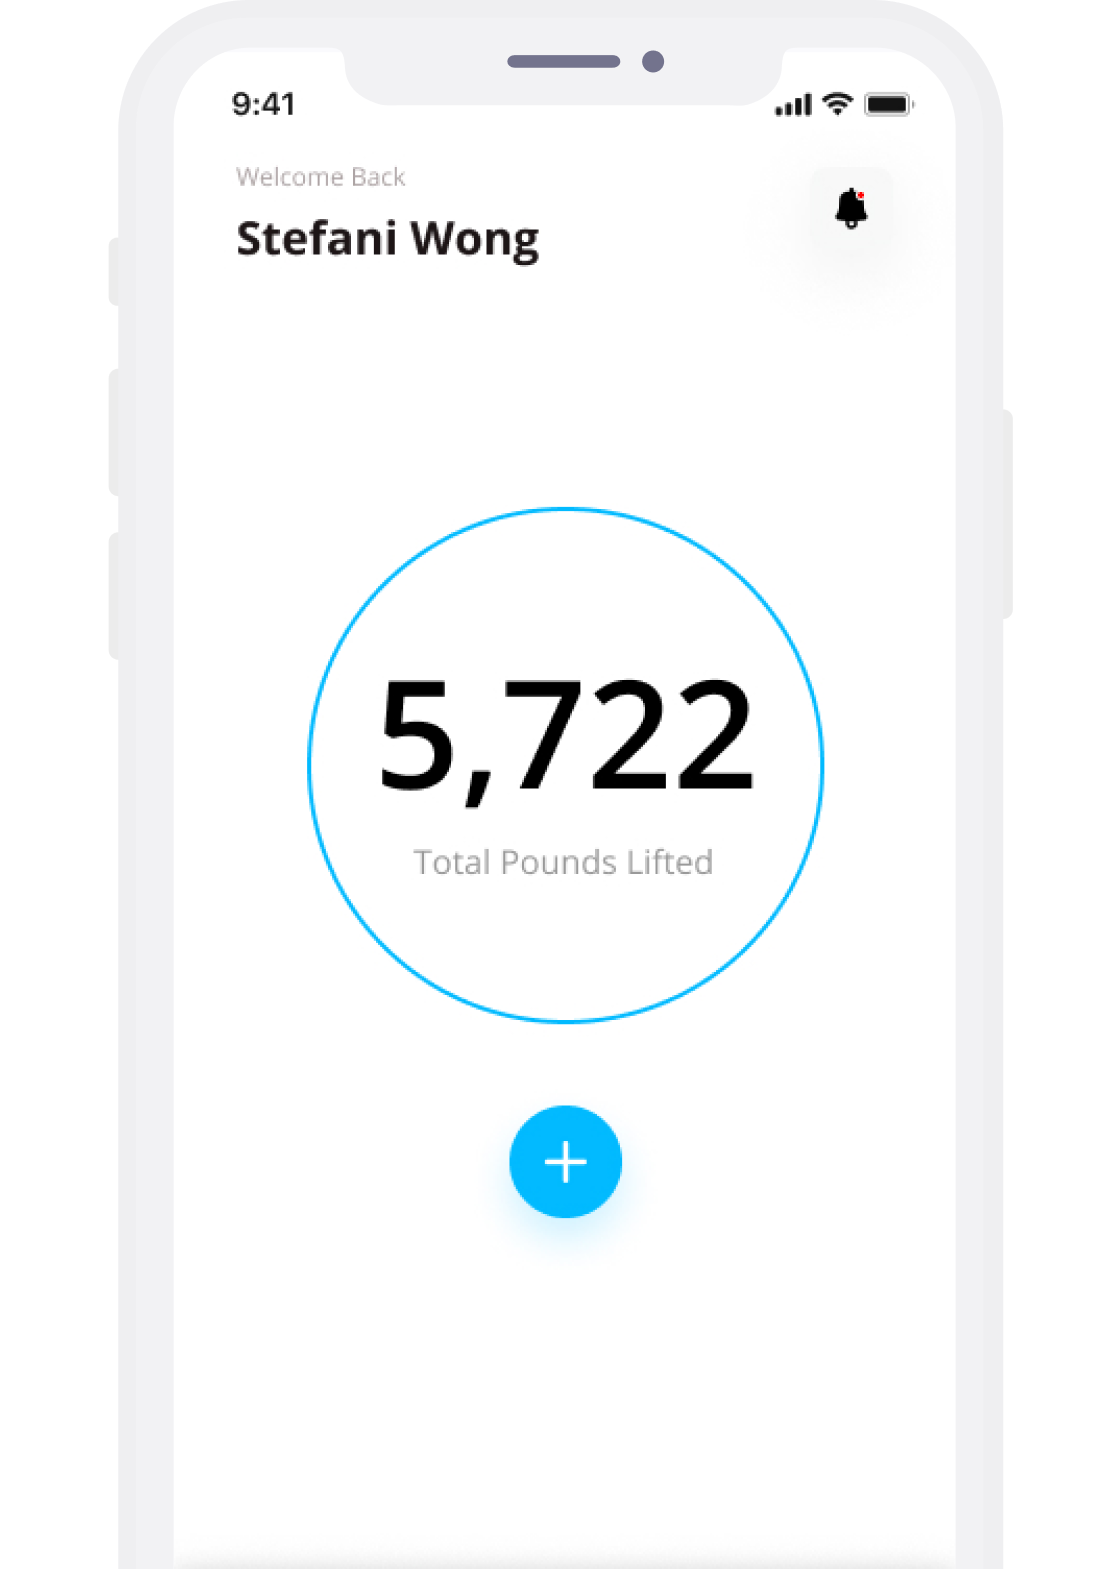
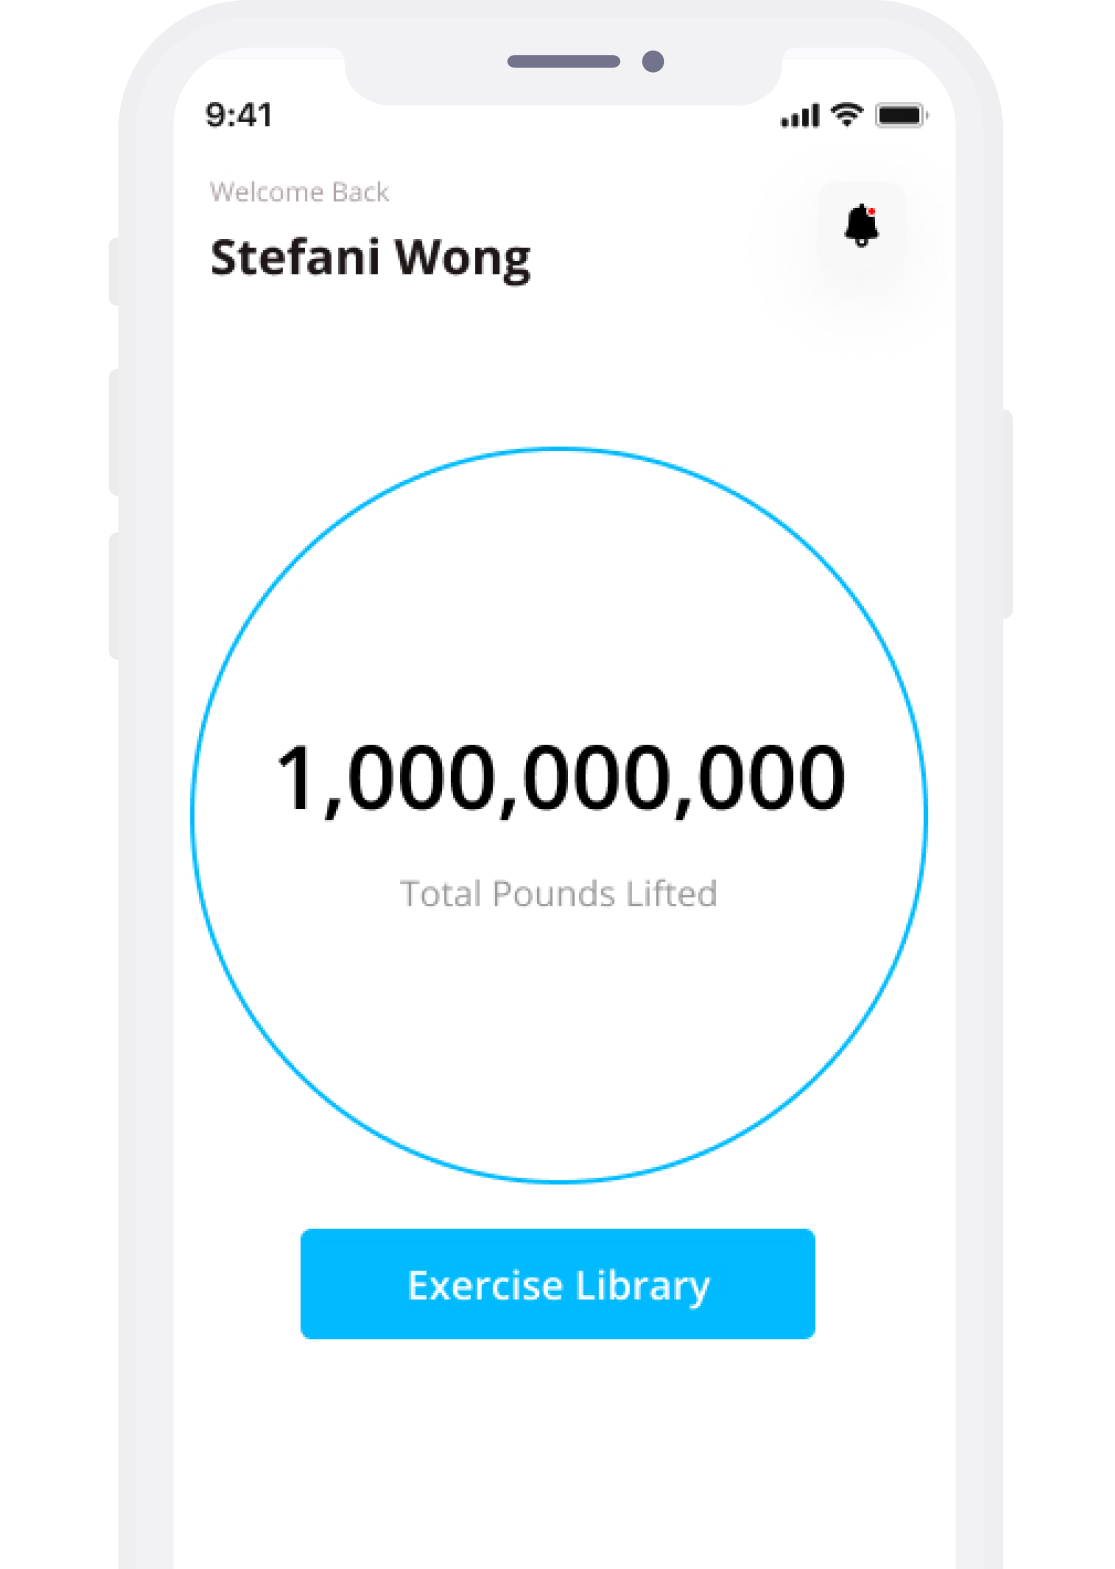
design changes & improvements
design changes & improvements

diff --git a/src/screens/AuthScreens/Login/Login.js b/src/screens/AuthScreens/Login/Login.js
@@ -1,5 +1,6 @@
 import React, {useEffect, useState} from 'react';
 import {Text, View, SafeAreaView, Image, StatusBar, Alert} from 'react-native';
+import AsyncStorage from '@react-native-async-storage/async-storage';
 import styles from './styles';
 import {AuthFooter, Input, WelcomeBox} from '../../../components';
 import {
@@ -20,6 +21,7 @@ import {loginRequest} from '../../../redux/actions';
 
 const Login = ({navigation}) => {
   const [loading, setloading] = useState(false);
+  const [isRemember, setIsRemember] = useState(false);
 
   //Redux States
   const dispatch = useDispatch(null);
@@ -39,7 +41,8 @@ const Login = ({navigation}) => {
     }
   };
   //onLogin Success
-  const onLoginSuccess = res => {
+  const onLoginSuccess = async res => {
+    await AsyncStorage.setItem('isRemember', isRemember.toString());
     setloading(false);
     if (res?.user != undefined) {
       navigation?.replace('App');
@@ -120,14 +123,36 @@ const Login = ({navigation}) => {
                 />
 
                 {/* App Privacy Checkbox */}
-                <Text
-                  onPress={() => {
-                    handleReset();
-                    navigation?.navigate('ForgotPassword');
-                  }}
-                  style={styles.forgotTxtStyle}>
-                  Forgot your password?{' '}
-                </Text>
+                <View style={styles.rowContainer}>
+                  <View style={styles.innerRowContainer}>
+                    <Icon
+                      type={'MaterialIcons'}
+                      name={
+                        isRemember ? 'check-box' : 'check-box-outline-blank'
+                      }
+                      size={20}
+                      color={isRemember ? colors.p1 : colors.g1}
+                      style={{marginTop: 5}}
+                      onPress={() => setIsRemember(!isRemember)}
+                    />
+                    <Text
+                      onPress={() => {
+                        handleReset();
+                        navigation?.navigate('ForgotPassword');
+                      }}
+                      style={styles.rememberTxtStyle}>
+                      Remember me
+                    </Text>
+                  </View>
+                  <Text
+                    onPress={() => {
+                      handleReset();
+                      navigation?.navigate('ForgotPassword');
+                    }}
+                    style={styles.forgotTxtStyle}>
+                    Forgot your password?{' '}
+                  </Text>
+                </View>
               </View>
 
               {/* Login Footer Part */}

diff --git a/src/components/Circle/HomeCircle.js b/src/components/Circle/HomeCircle.js
@@ -36,7 +36,8 @@ export const HomeCircle = ({title, subtitle, icon, onPressAdd, isLoading}) => {
       {icon && (
         <LinearGradient colors={colors.t_gradient} style={styles.btnContainer}>
           <TouchableOpacity style={styles.btnContainer} onPress={onPressAdd}>
-            <Image source={icon} style={styles.btnImage} />
+            <Text style={styles.buttonTxtStyle}>Exercise Library</Text>
+            {/* <Image source={icon} style={styles.btnImage} /> */}
           </TouchableOpacity>
         </LinearGradient>
       )}
@@ -73,9 +74,9 @@ const styles = StyleSheet.create({
     backgroundColor: colors.p1,
     alignItems: 'center',
     justifyContent: 'center',
-    height: 54,
-    width: 54,
-    borderRadius: 50,
+    height: 50,
+    width: WP('60'),
+    borderRadius: 5,
     shadowOffset: {
       width: 0,
       height: 4,
@@ -93,5 +94,10 @@ const styles = StyleSheet.create({
   aiCenter: {
     alignItems: 'center',
     justifyContent: 'center',
+  },
+  buttonTxtStyle: {
+    color: colors.white,
+    fontSize: size.large,
+    fontFamily: family.Poppins_Medium,
   },
 });

diff --git a/src/components/Cards/ActivityCard/ActivityCard.js b/src/components/Cards/ActivityCard/ActivityCard.js
@@ -11,6 +11,7 @@ import {
   spacing,
   WP,
 } from '../../../shared/exporter';
+import moment from 'moment';
 import {FitnessCard} from '../FitnessCard/FitnessCard';
 
 export const ActivityCard = ({
@@ -21,6 +22,7 @@ export const ActivityCard = ({
   weight,
   excercise,
   bestSet,
+  createdAt,
 }) => {
   return (
     <View style={styles.cardContainer}>
@@ -36,7 +38,10 @@ export const ActivityCard = ({
         <Text style={styles.subtitle}>{excercise}</Text>
       </View>
       <View style={styles.rightContainer}>
-        <View style={spacing.py3}>
+        <Text numberOfLines={1} style={styles.date}>
+          {moment(createdAt).format('LL')}
+        </Text>
+        <View style={[spacing.pb3, {top: 7}]}>
           <FitnessCard icon={cardIcon} />
         </View>
         <Text style={styles.type}>Best Set</Text>
@@ -110,5 +115,10 @@ const styles = StyleSheet.create({
     fontFamily: family.OpenSans_SemiBold,
     color: colors.b7,
     marginVertical: 3,
+  },
+  date: {
+    fontSize: size.tiny,
+    fontFamily: family.OpenSans_Regular,
+    color: colors.g1,
   },
 });

diff --git a/src/screens/Walkthrough/Walkthrough.js b/src/screens/Walkthrough/Walkthrough.js
@@ -16,14 +16,14 @@ const slides = [
   {
     key: 1,
     title: 'Your Personal Journal',
-    text: 'Keep growing your total! Every time you input a new workout, your total goes up!',
+    text: 'Not only can you use our app during The Billion Pound Challenge, you can use our app every day of the year to keep your weight lifting information available.',
     image: appImages.slider1,
     backgroundColor: '#59b2ab',
   },
   {
     key: 2,
     title: 'Join Events',
-    text: 'Grab your favorite event and set your total lifted amount on that event.',
+    text: 'Join your favorite team and help them reach their goals for charity!',
     image: appImages.slider2,
     backgroundColor: '#febe29',
   },
@@ -37,7 +37,7 @@ const slides = [
   {
     key: 4,
     title: 'About Company',
-    text: 'The rescue team foundation is an organisation committed to change lives through fun fitness fundraisers!',
+    text: 'Join your favorite team and help them reach their goals for charity!',
     image: appImages.slider4,
     backgroundColor: '#22bcb5',
   },

diff --git a/src/screens/Splash/Splash.js b/src/screens/Splash/Splash.js
@@ -4,6 +4,7 @@ import styles from './styles';
 import {appLogos} from '../../shared/theme/assets';
 import {useDispatch, useSelector} from 'react-redux';
 import messaging from '@react-native-firebase/messaging';
+import AsyncStorage from '@react-native-async-storage/async-storage';
 import {
   LocalNotification,
   Notification_Listner,
@@ -32,16 +33,17 @@ const Splash = ({navigation}) => {
     Notification_Listner(dispatch, navigation);
   };
 
-  const handleAppEntry = () => {
+  const handleAppEntry = async () => {
+    const isRemember = await AsyncStorage.getItem('isRemember');
     setTimeout(() => {
-      if (userInfo?.user == null) {
+      if (isRemember === 'true') {
+        navigation.replace('App');
+      } else {
         if (walkthrough?.skip) {
           navigation.replace('Auth');
         } else {
           navigation.replace('GettingStarted');
         }
-      } else {
-        navigation.replace('App');
       }
     }, 2500);
   };

diff --git a/src/screens/AuthScreens/Login/styles.js b/src/screens/AuthScreens/Login/styles.js
@@ -22,13 +22,34 @@ const styles = StyleSheet.create({
   inputContainer: {
     height: scrHeight / 2,
   },
-  forgotTxtStyle: {
+  rowContainer: {
+    width: '90%',
+    alignSelf: 'center',
+    flexDirection: 'row',
+    alignItems: 'center',
+    justifyContent: 'space-between',
+  },
+  innerRowContainer: {
+    flexDirection: 'row',
+    alignItems: 'center',
+    justifyContent: 'space-between',
+  },
+  rememberTxtStyle: {
     fontSize: size.tiny,
-    top: 5,
+    top: 2.5,
+    marginHorizontal: WP('2'),
     fontFamily: family.OpenSans_Regular,
     color: colors.g2,
     textAlign: 'right',
-    marginHorizontal: WP('5'),
+    textDecorationLine: 'underline',
+  },
+  forgotTxtStyle: {
+    fontSize: size.tiny,
+    top: 2.5,
+    fontFamily: family.OpenSans_Regular,
+    color: colors.g2,
+    textAlign: 'right',
+    marginHorizontal: WP('1'),
     textDecorationLine: 'underline',
   },
 });

diff --git a/src/screens/BottomTabs/ProfileTab/Profile.js b/src/screens/BottomTabs/ProfileTab/Profile.js
@@ -29,6 +29,7 @@ import {useDispatch, useSelector} from 'react-redux';
 import {getProfile, logoutRequset} from '../../../redux/actions';
 import {GoogleSignin} from '@react-native-google-signin/google-signin';
 import {useFocusEffect} from '@react-navigation/native';
+import AsyncStorage from '@react-native-async-storage/async-storage';
 
 const Profile = ({navigation}) => {
   //Redux States
@@ -48,6 +49,7 @@ const Profile = ({navigation}) => {
   );
   //On Logout Hanlder
   const onLogout = async () => {
+    await AsyncStorage.setItem('isRemember', 'false');
     dispatch(logoutRequset(null));
     GoogleSignin.signOut();
     navigation?.replace('Auth');

diff --git a/src/shared/utilities/constant.js b/src/shared/utilities/constant.js
@@ -25,7 +25,7 @@ const filterCategory = [
   {id: 2, title: 'Dumbbell', tick: false, key: 'dumbbell'},
   {id: 3, title: 'Machine/Other', tick: false, key: 'machine'},
   {id: 4, title: 'Body Weight', tick: false, key: 'bodyweight'},
-  {id: 5, title: 'Raps only', tick: false, key: 'reps_only'},
+  {id: 5, title: 'Reps only', tick: false, key: 'reps_only'},
   {id: 6, title: 'Cardio exercise', tick: false, key: 'cardio_exercise'},
   // {id: 9, title: 'None', tick: false},
 ];

diff --git a/src/screens/BottomTabs/ActivityTab/Activity.js b/src/screens/BottomTabs/ActivityTab/Activity.js
@@ -137,6 +137,7 @@ const Activity = ({navigation}) => {
                       excercise={`${item?.repetitions?.length || ''}x ${
                         item?.exercise?.name || ''
                       }`}
+                      createdAt={item?.created_at || ''}
                       mode={item?.exercise?.name || ''}
                       cardIcon={
                         item?.exercise?.exercise_image_url

diff --git a/src/screens/BottomTabs/DashboardTab/AddExcercise/AddExcercise.js b/src/screens/BottomTabs/DashboardTab/AddExcercise/AddExcercise.js
@@ -305,6 +305,10 @@ const AddExcercise = ({navigation}) => {
           title={'Add Workout'}
           // subtitle={'Save'}
         />
+        <Text style={styles.infoTxtStyle}>
+          If you can't find your exercise in our library, enter your exercise
+          and weight here.
+        </Text>
         <View style={styles.itemContainer}>
           <SearchBar
             placeholder={'Search...'}

diff --git a/src/screens/BottomTabs/DashboardTab/AddExcercise/styles.js b/src/screens/BottomTabs/DashboardTab/AddExcercise/styles.js
@@ -19,6 +19,12 @@ const styles = StyleSheet.create({
     marginHorizontal: WP('5'),
     flex: 1,
   },
+  infoTxtStyle: {
+    marginBottom: 2,
+    color: colors.g3,
+    fontSize: size.xsmall,
+    fontFamily: family.OpenSans_SemiBold,
+  },
   itemContainer: {
     flex: 1,
   },
